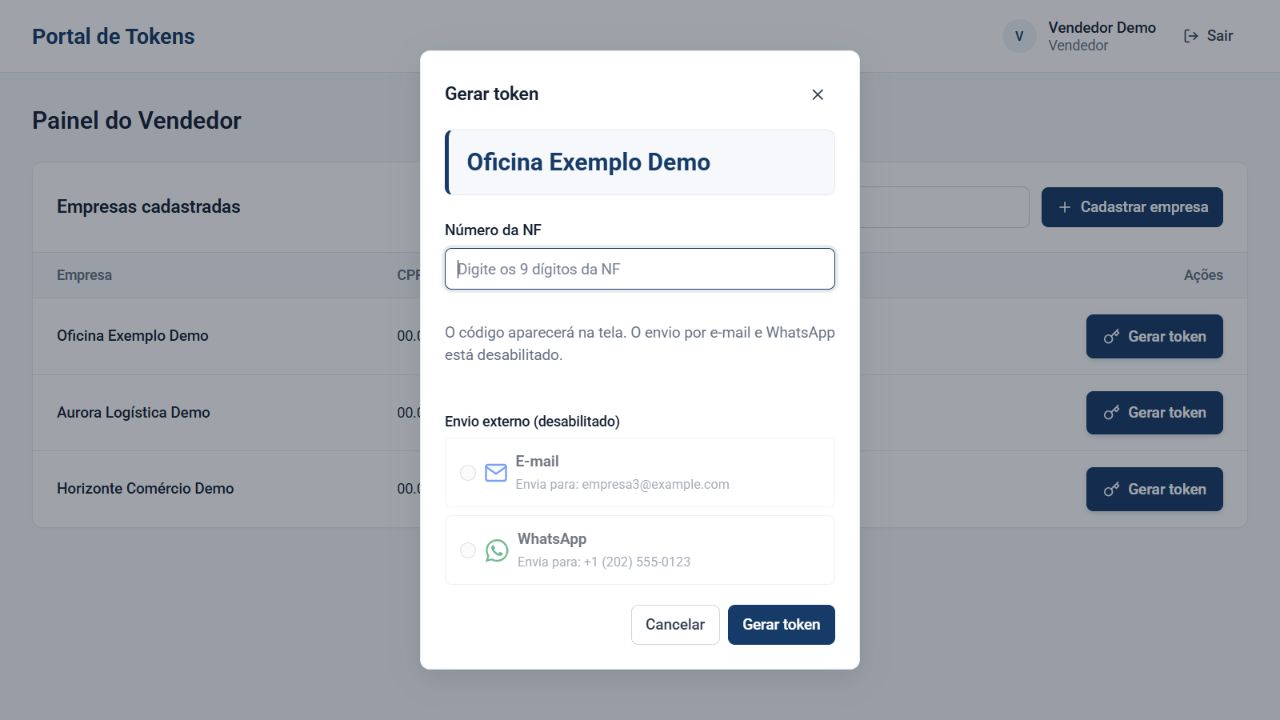
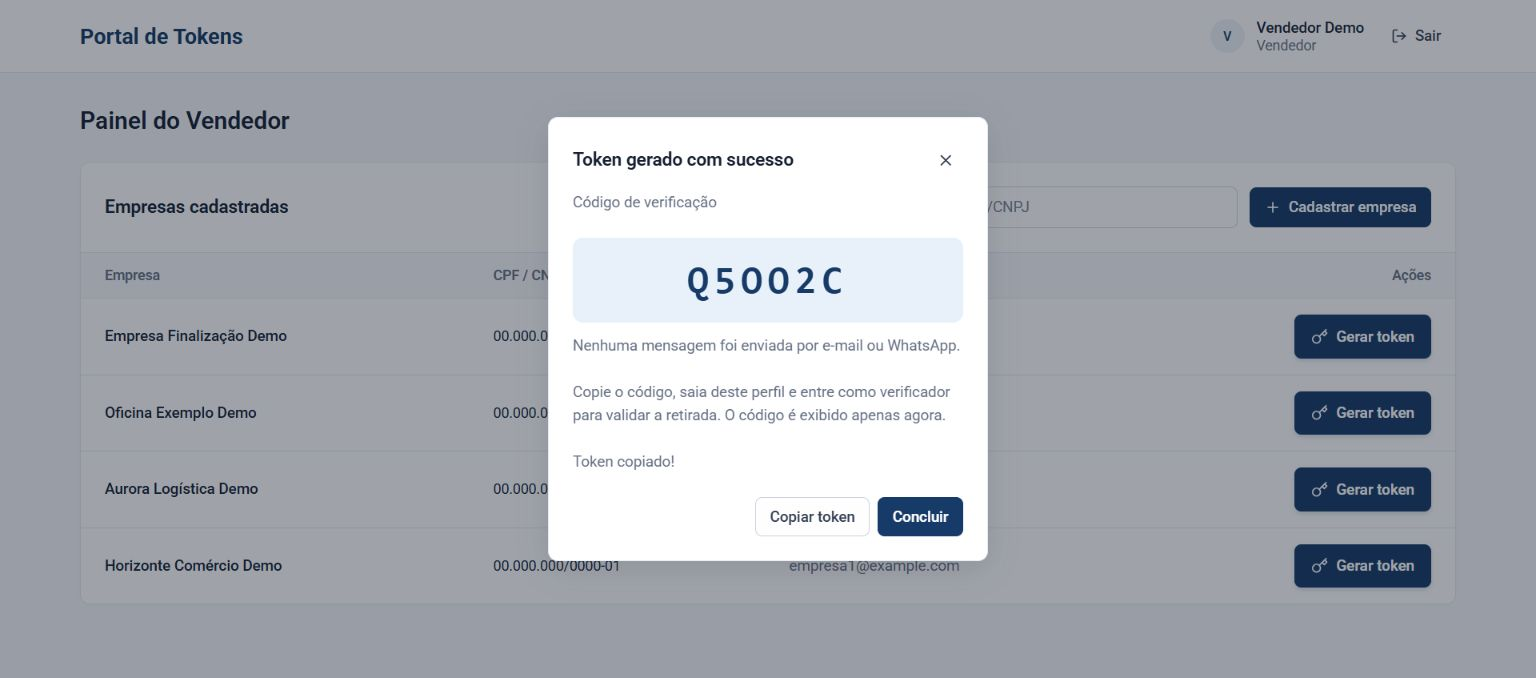
docs: esclarece acessos públicos e prepara publicação segura

diff --git a/docs/DEPLOY.md b/docs/DEPLOY.md
@@ -1,0 +1,75 @@
+# Publicação segura da demonstração
+
+Plano preparado em 14/10/2026. Não autoriza deploy, merge, mudança de ambiente, índice, migração ou escrita remota. Não acessar Lightsail nem o sistema empresarial original.
+
+## Infraestrutura observada, somente leitura
+
+| Componente | Configuração confirmada |
+| --- | --- |
+| Frontend Vercel | Projeto `tokens`, produção `master`, commit `eec58ac`, raiz `frontend` |
+| Frontend público | `https://tokens-theta-dun.vercel.app/` |
+| API compilada no frontend | `https://tokens-xfrp.onrender.com/api` |
+| Backend Render | Serviço `tokens`, ID `srv-db76ku49v7es73al9l6g`, Node, Free, Oregon |
+| Repositório backend | `guilhermehgl/tokens`, `master`, raiz `backend/` |
+| Build backend | `npm ci --include=dev && npm run build` |
+| Start backend | `npm run start` → `node dist/src/app.js` |
+| Último sucesso backend | `96548feed2adc1a30af2eca625cab16e3dc851e3` |
+| Última tentativa | `eec58ac`, build passou, inicialização recusou `JWT_SECRET` curto |
+| Health check Render | Campo vazio na inspeção; planejar `/api/health` |
+
+O último build Render escolheu Node 26.11.1 pelo range de engines. O projeto admite essa linha, porém o CI existente cobre 22/24. Planejar Node 24 validado; não apresentar 26 como certificado pelo CI. A instância Free pode dormir e atrasar requisições por mais de 50 segundos; isso não comprova contrato funcional nem explica sozinho o 502 observado.
+
+Vercel cria previews da branch de melhorias; Render registrou Auto-Deploy para `master`. **Push pode gerar preview; merge pode iniciar produção.** Não executar sem aprovação que cubra o efeito automático. Nenhuma configuração foi alterada para contornar essa exigência.
+
+## Ambiente necessário
+
+- Frontend: `VITE_API_URL=https://tokens-xfrp.onrender.com/api` no build. Nova variável só vale em novo build. Rewrites Vercel atendem SPA, sem proxy para Render.
+- Backend: `MONGO_URI` do banco demonstrativo confirmado, `JWT_SECRET` aleatório com pelo menos 32 caracteres e `CORS_ORIGINS=https://tokens-theta-dun.vercel.app`. Adicionar origem de preview só com aprovação; sem wildcard.
+- `PORT` fornecida pela hospedagem ou padrão local. `TRUST_PROXY` desativado até determinar cadeia/IPs confiáveis; não definir `true` indiscriminadamente. `HTTPS_ENABLED` somente após confirmar HTTPS/proxy.
+- SMTP/Vonage não são necessários. Seus nomes existem no Render, mas os valores não foram revelados nem alterados; sua presença não deve habilitar envio na versão corrigida.
+
+Gerar JWT no ambiente seguro do responsável. Rotação invalida sessões, sem mudar senhas. Não publicar segredo em docs, PR ou logs. Corrigir `JWT_SECRET` é alteração externa sujeita à autorização.
+
+## Banco: bloqueio anterior à publicação
+
+`MONGO_URI` permanece mascarada; **nome exato e isolamento do banco remoto não foram confirmados**. Não houve conexão ao banco hospedado. O responsável deve identificar cluster e nome exato e confirmar que contém apenas a demonstração, sem dados empresariais.
+
+Após essa confirmação, usar credencial somente leitura, sem divulgar URI. Configurar `MONGO_URI` com segurança no processo autorizado, sem mudar a configuração externa. No checkout revisado:
+
+```powershell
+$env:INTEGRITY_DB_NAME="<nome-exato-confirmado>"
+npm --prefix backend run check:integrity
+```
+
+O script executa TypeScript via `tsx`, consultas/aggregations e `listIndexes`, com `autoIndex=false` e `autoCreate=false`. Não usa seed, modelos, criação/remoção de índices ou atualização de documentos. Exige correspondência exata do nome após conectar. O nome informado não prova isolamento; essa confirmação continua humana.
+
+Esperado: zero duplicidades de `tokenHash`, documentos e e-mails normalizados; zero hashes inválidos e documentos fora do formato; índices `ready`: únicos em `tokens.tokenHash`, `companies.documento`, `users.email`, TTL `tokens.expiresAt` com zero segundos. Índices parciais, sparse ou com collation incompatível não são considerados prontos. Saída 1 indica pendências, recusa ou indisponibilidade. O diagnóstico não certifica todos os campos nem a veracidade dos dados.
+
+**Não iniciar o servidor como diagnóstico remoto**: a inicialização corrigida verifica integridade e cria índices. TTL pode remover registros vencidos; índice único pode falhar com duplicatas. Esse passo afeta dados e exige aprovação.
+
+Se houver pendências:
+
+1. Fazer backup protegido e testar restauração em cópia isolada, registrando contagens e índices.
+2. Preparar relatório de conflitos e decisão explícita sobre cada formato/duplicata. Não deduplicar ou apagar automaticamente.
+3. Testar migração revisável na cópia; guardar mapeamento, métricas e procedimento inverso quando aplicável.
+4. Obter aprovação específica para mudanças e índices/TTL na demonstração.
+5. Repetir diagnóstico e validar a cópia com backend corrigido antes de alterar o ambiente público.
+
+Seed exige sufixo `_demo` e banco vazio ou marcador conhecido. Não substituir contas públicas por `@demo.local`. Não executar seed remoto; o reconhecimento das identidades públicas no código protege-as sem trocar senhas/flags no banco.
+
+## Sequência após aprovações específicas
+
+1. Revisar commits locais e autorizar push/preview. Executar CI Node 22/24 no novo HEAD; resultado de `42083d7` não certifica o HEAD novo.
+2. Confirmar isolamento/nome do banco, diagnóstico, backup, migração se necessária e autorização dos índices.
+3. Validar backend/frontend em cópia isolada, sem provedores externos. Preview não deve apontar inadvertidamente para dados empresariais.
+4. Aprovar correção JWT e configurações necessárias; escolher o commit a publicar. Merge e deploy são aprovações distintas do push do PR.
+5. Publicar backend corrigido primeiro; conferir logs, health, revisão, CORS e contas protegidas. Não divulgar geração enquanto houver backend antigo.
+6. Publicar frontend compatível com URL correta, sem reutilizar build com variável antiga.
+7. Com autorização para dados fictícios, testar três logins, cadastro, geração/cópia, logout, consumo, recusa de repetição, pendências e auditoria. Validar mobile/erros e ausência de SMTP/Vonage, também com canais HTTP forçados.
+8. Só então anunciar demonstração completa e atualizar README/homepage. `Ready` e build não substituem fluxo real.
+
+## Rollback
+
+Registrar revisão, configuração segura e backup antes da mudança. Em falha, não enfraquecer JWT ou integridade. Interromper geração e corrigir isoladamente. Backend antigo `96548fe` contém envio externo: **não é rollback seguro para demonstração sem bloqueio da geração**. Preparar previamente artefato revisado com envio desativado e compatível com os dados.
+
+Rollback frontend somente para revisão compatível com API escolhida. Não apagar índices, restaurar banco, sobrescrever senhas ou rodar seed automaticamente. Banco exige plano/aprovação próprios; restauração pode perder escritas posteriores ao backup. Preservar logs sanitizados. Toda operação externa de rollback exige autorização.

diff --git a/docs/PUBLICACAO.md b/docs/PUBLICACAO.md
@@ -1,15 +1,32 @@
 # Estado da publicação — 14/10/2026
 
-- Endereço informado inicialmente: https://tokens-mu.vercel.app — `404 DEPLOYMENT_NOT_FOUND`.
-- Endereço correto informado pelo autor: https://tokens-theta-dun.vercel.app — aplicação carrega e login dos três perfis e consultas de usuários, empresas, auditoria e pendências confirmados.
-- Contas atuais da hospedagem são diferentes do seed local. As três identidades fornecidas pelo autor foram incluídas nas proteções do código corrigido, sem alterar usuários ou credenciais no banco hospedado.
-- A interface publicada mostra envio externo desabilitado. Entretanto, ao gerar na tela, a API responde: “Escolha um canal de envio válido: e-mail ou WhatsApp.” Isso comprova incompatibilidade entre as versões do frontend/backend. A geração pública não foi concluída, e nenhum canal externo foi selecionado.
-- O admin publicado oferece ações de criação/exclusão e alteração de senha nas contas públicas. As novas proteções foram implementadas e testadas localmente, sem executar mutações administrativas no ambiente remoto.
-- Nenhum deploy, acesso Lightsail, alteração de configuração externa ou migração remota foi realizado. Não há evidência de que o servidor hospedado execute o commit corrigido.
-- Não anunciar o fluxo público como integralmente funcional antes de alinhar os deploys e repetir geração, consumo, segundo uso e auditoria. Não usar SMTP/Vonage para contornar o erro.
+Esta página separa execução local, evidências históricas e inspeção atual somente leitura. Nenhum merge, deploy manual, mudança de variável externa, migração ou alteração do banco remoto foi realizado nesta etapa.
 
-A versão corrigida usa somente geração na tela. O seed exige banco isolado terminado em `_demo`, vazio ou marcado, e não apaga dados. Não publica mudanças ou restaura infraestrutura. Confira [integridade e operação](INTEGRIDADE.md).
+| Item | Evidência atual | Conclusão |
+| --- | --- | --- |
+| Frontend | `https://tokens-theta-dun.vercel.app/` responde 200; Vercel indica `master`, commit `eec58ac` | CONFIRMADA a disponibilidade da interface |
+| API efetiva | Bundle público `index-qwnw2PeN.js` contém `https://tokens-xfrp.onrender.com/api` | CONFIRMADO o destino compilado de `VITE_API_URL` |
+| Proxy | URL absoluta no bundle; `frontend/vercel.json` faz apenas fallback SPA | API chamada diretamente no Render |
+| Backend | Render `tokens`, serviço `srv-db76ku49v7es73al9l6g`, branch `master` | Último sucesso `96548feed2adc1a30af2eca625cab16e3dc851e3` |
+| Atualização recusada | Deploy `dep-db7o6gui0phs739bultg`, fonte `eec58ac`, build concluído, processo encerrado com status 1 | Log: `JWT_SECRET deve ter pelo menos 32 caracteres.` |
+| Disponibilidade API | GET `/api/health` respondeu 502, inclusive sem Origin e com Origin correto | NÃO FOI POSSÍVEL VERIFICAR os fluxos públicos nesta revisão; 502 não comprova falha de CORS |
+| CORS | Logs do deploy recusado incluem theta e a origem antiga | Configuração registrada; comportamento hospedado da versão nova ainda não validado |
+| Banco remoto | `MONGO_URI` existe no painel, mantida mascarada | Nome, isolamento, duplicidades, formatos e índices NÃO VERIFICADOS |
 
-A apresentação do repositório pode usar a descrição: “Sistema Full Stack de geração e validação de tokens de retirada, com autenticação JWT, controle de acesso, auditoria e MongoDB.” Topics pertinentes: `react`, `nodejs`, `typescript`, `express`, `mongodb`, `fullstack`, `jwt`, `authentication`, `rest-api`, `portfolio`. Homepage deve apontar para uma demonstração integralmente validada; a geração pública continua pendente.
+O endereço antigo `tokens-mu.vercel.app` respondeu 404 e não é recomendado como acesso.
 
-Descrição e dez topics atualizados no GitHub. A homepage antiga foi removida, pois estava indisponível; o novo endereço permanece documentado com a limitação de geração, sem ser anunciado como fluxo completo validado.
+## Causa e limites
+
+O código público do backend `96548fe` exige `deliveryChannel=email|whatsapp`; o frontend solicita `screen`. Essa combinação explica a mensagem “Escolha um canal de envio válido: e-mail ou WhatsApp.” observada na etapa anterior. O novo backend compilou, porém recusou o segredo JWT curto na inicialização. Não reduzir a validação para contornar o problema.
+
+A branch corrigida já gera exclusivamente na tela, sem invocar `deliverToken`; não há rota alternativa que habilite SMTP/Vonage. Isso está validado localmente. **Não significa que o backend antigo hospedado tenha envio externo desativado.** Não forçar canais externos remotamente.
+
+Login dos três perfis e consultas administrativas foram confirmados na etapa anterior. Nesta revisão não foram repetidos com a API em 502. As credenciais públicas foram preservadas; nenhum seed remoto, alteração de senha, exclusão ou mutação administrativa foi executado. A validação pública completa aguarda deploy especificamente autorizado.
+
+## GitHub e automação
+
+O [PR existente](https://github.com/guilhermehgl/tokens/pull/1) permanece aberto. O CI de `42083d7` passou em Node 22 e 24 ([execução](https://github.com/guilhermehgl/tokens/actions/runs/38621039452)). Esse resultado não certifica commits locais posteriores.
+
+O workflow de qualidade não contém deploy, mas **a integração Vercel cria previews ao atualizar a branch/PR**; isso ocorreu na etapa anterior. Portanto, ausência de comando manual não significa ausência de deploy automático. Render também registra Auto-Deploy para `master`.
+
+Nesta etapa os novos commits são preparados localmente, sem push, até autorização para o preview automático. Homepage permanece sem anunciar o fluxo completo. [Plano de publicação, banco e rollback](DEPLOY.md).

diff --git a/README.md b/README.md
@@ -8,7 +8,9 @@ Criado para uma necessidade empresarial e adaptado para portfólio público com 
 
 [Portal de Tokens](https://tokens-theta-dun.vercel.app/)
 
-Verificação em 14/10/2026: carregamento, login dos três perfis e consulta administrativa disponíveis. **A geração publicada está bloqueada por incompatibilidade entre frontend e API**: a interface solicita exibição na tela, mas o backend hospedado exige um canal externo. Não selecione canais de mensagem para contornar o erro. A correção da branch precisa de revisão e deploy autorizado; testes locais não comprovam que a versão publicada recebeu as mudanças. O endereço anterior `tokens-mu.vercel.app` retorna `DEPLOYMENT_NOT_FOUND`.
+Verificação em 14/10/2026: o frontend carrega, mas **a demonstração completa permanece indisponível**. O bundle aponta para a API Render, que respondeu HTTP 502 nesta revisão. O painel confirma frontend em `eec58ac` e último backend publicado com sucesso em `96548fe`. O deploy do backend mais novo compilou, mas falhou ao iniciar por `JWT_SECRET` abaixo do mínimo de 32 caracteres. A versão antiga exige canal externo; não tente contornar o erro escolhendo e-mail ou WhatsApp. [Estado e evidências](docs/PUBLICACAO.md).
+
+### Acessos públicos de teste
 
 Credenciais da hospedagem, fornecidas pelo autor para a demonstração:
 
@@ -18,7 +20,21 @@ Credenciais da hospedagem, fornecidas pelo autor para a demonstração:
 | Vendedor | vendedor@vendedor.com | `123$qwer` |
 | Verificador | verificador@verificador.com | `123$qwer` |
 
-Essas identidades também são protegidas no código corrigido. A versão hospedada ainda exibe ações administrativas para elas; não representa a validação das novas proteções. Nunca use essas senhas em contas reais.
+As credenciais são públicas intencionalmente e qualquer visitante pode utilizá-las. Use somente dados fictícios, nunca informações empresariais reais. Essas identidades são protegidas no código corrigido; as proteções ainda precisam ser publicadas. Os logins foram confirmados na etapa anterior, mas não foram revalidados nesta revisão com a API indisponível. Nunca use essas senhas em contas reais.
+
+### Como experimentar
+
+O roteiro abaixo descreve a versão corrigida, validada localmente. **No endereço público, aguarde a atualização autorizada da API e a confirmação do fluxo completo.** Não é necessário configurar um ambiente local para usar a demonstração depois da publicação.
+
+1. Abra o link acima e entre como **Vendedor**.
+2. Selecione uma empresa fictícia ou cadastre outra com dados de teste.
+3. Informe uma NF de nove dígitos, por exemplo `000000101`, e clique em **Gerar token**.
+4. Copie o código exibido no modal. A versão corrigida não envia mensagens externas.
+5. Saia e entre como **Verificador**; informe o código e confirme a verificação.
+6. Repita a tentativa com o mesmo código: a segunda retirada deve ser recusada.
+7. Consulte pendências e retiradas; depois entre como **Administrador** para consultar usuários, empresas e auditoria.
+
+Os perfis separam emissão, liberação da retirada e administração. As contas são compartilhadas; outros visitantes podem adicionar dados fictícios enquanto você navega.
 
 ## Funcionalidades por perfil
 
@@ -122,7 +138,7 @@ $env:INTEGRITY_DB_NAME="portal_tokens_demo"
 npm --prefix backend run check:integrity
 ```
 
-O comando imprime apenas contagens e não modifica registros ou índices. [Procedimento de migração e limitações](docs/INTEGRIDADE.md).
+O comando imprime contagens e o estado dos índices esperados, sem valores de registros. Não cria coleções, índices ou dados. Verifica hashes legados, documentos, e-mails equivalentes após normalização e índices únicos/TTL. Saída com código 1 indica diagnóstico recusado, indisponível ou pendências; índice ausente não autoriza criá-lo remotamente. [Migração](docs/INTEGRIDADE.md) · [Plano de publicação e rollback](docs/DEPLOY.md).
 
 ## Testes e builds
 
@@ -146,7 +162,7 @@ O resultado real deve ser consultado na aba Actions do commit/PR; a existência 
 
 ## Integrações e limitações
 
-Nodemailer/SMTP/MJML e Vonage Messages API permanecem no código como referência técnica. A geração da versão corrigida **não chama os provedores**, mesmo que o cliente peça envio. Credenciais de integração não habilitam mensagens. Reativação exigiria uma mudança explícita no fluxo. [Integração WhatsApp](backend/WHATSAPP.md).
+Nodemailer/SMTP/MJML e Vonage Messages API possuem implementações preservadas da solução original, incluindo templates, validações e tratamento de erros. A geração da versão corrigida **não chama os provedores**, mesmo que o cliente peça envio. Credenciais de integração não habilitam mensagens. Reativação exigiria uma mudança explícita no fluxo. Testes usam mocks ou transporte MIME local; não houve validação de envio real nesta auditoria. **O backend hospedado antigo ainda possui envio no fluxo; a desativação pública só pode ser afirmada após sua atualização e validação.** [Integração WhatsApp](backend/WHATSAPP.md).
 
 A demonstração compartilha cadastros e não oferece isolamento por visitante. Limitadores são por processo; múltiplas instâncias precisam de armazenamento compartilhado antes de escalar. Não há limpeza automática, reset destrutivo, garantia transacional de auditoria, revogação imediata de JWT no logout ou unicidade de código após exclusão TTL. JWT em localStorage mantém risco de exposição por XSS; migração HttpOnly exige revisão do contrato de autenticação.
 

diff --git a/docs/API.md b/docs/API.md
@@ -1,0 +1,39 @@
+# Contrato demonstrativo de tokens
+
+Base local `/api`; o frontend hospedado aponta para `https://tokens-xfrp.onrender.com/api`. O contrato abaixo pertence à branch corrigida, ainda pendente de publicação autorizada. O backend antigo hospedado é incompatível.
+
+## Geração
+
+`POST /api/tokens/generate`, Bearer JWT, perfil vendedor ou administrador:
+
+```json
+{"companyId":"<ObjectId existente>","nfNumber":"000000101","deliveryChannel":"screen"}
+```
+
+A NF é string com nove dígitos, preservando zeros iniciais. `deliveryChannel` é ignorado: omitido, `screen`, `email` e `whatsapp` produzem exclusivamente exibição na tela. Não existe parâmetro ou variável que reative envio nessa rota.
+
+HTTP 200 com `Cache-Control: no-store`:
+
+```json
+{"success":true,"token":"ABC123","tokenId":"<ObjectId>","expiresAt":"<ISO-8601>","deliveryChannel":"screen","message":"Token gerado. Copie o código exibido na tela."}
+```
+
+O código do exemplo é ilustrativo. O código real tem seis caracteres e validade de 30 dias. Só SHA-256 é persistido; o código aparece apenas na resposta autorizada. Auditoria registra contexto e canal `screen`, sem código/hash. O frontend exibe modal e permite copiar, sem persistência em URL/localStorage.
+
+Erros: 400 dados inválidos, 401 sessão inválida, 403 perfil sem permissão, 404 empresa ausente, 429 limite excedido, 503 esgotamento das tentativas de colisão e 500 falha interna.
+
+## Verificação
+
+`POST /api/tokens/verify`, Bearer JWT, perfil verificador ou administrador:
+
+```json
+{"token":"ABC123"}
+```
+
+Consumo atômico exige hash correspondente, `used=false` e validade futura. HTTP 200 confirma liberação. HTTP 400 com `code=used_token` impede repetição; `expired_token` informa vencimento enquanto o registro existir; `invalid_token` cobre formato incorreto ou código ausente. Após TTL, código vencido pode ser informado como não encontrado.
+
+`GET /api/tokens/unverified` e `GET /api/tokens/verified-today` não devolvem código/hash. `GET /api/audit` exige administrador e sanitiza registros antigos. Falhas secundárias de auditoria não revertem retirada consumida; auditoria não é transacional.
+
+## Integrações preservadas
+
+`deliverToken`, SMTP/Nodemailer/MJML e Vonage permanecem implementados, sem ligação com as rotas demonstrativas de geração. Os serviços têm testes com mocks/transportes locais. O teste HTTP bloqueia conexões externas e criação de transporte SMTP durante geração, inclusive com canais forçados.

diff --git a/docs/INTEGRIDADE.md b/docs/INTEGRIDADE.md
@@ -11,7 +11,7 @@ $env:INTEGRITY_DB_NAME="portal_tokens_demo"
 npm run check:integrity
 ```
 
-O diagnóstico usa somente leituras, desabilita criação automática de índices e imprime contagens, sem hashes ou documentos. Código de saída 1 indica duplicidades, formatos não canônicos ou falha de acesso. Se houver documentos formatados, normalize-os somente após revisão humana: documentos não canônicos bloqueiam a inicialização, evitando ignorar colisões entre formas diferentes. O diagnóstico não modifica o banco. Nenhuma migração foi executada em banco remoto.
+O diagnóstico usa somente leituras, desabilita criação automática de índices e coleções e imprime contagens e estado dos índices esperados, sem hashes, e-mails ou documentos. Inclui duplicidades de e-mails após normalização, hashes inválidos, documentos não canônicos e índices únicos/TTL ausentes ou incompatíveis. Código de saída 1 indica pendências, recusa ou falha de acesso. Se houver documentos formatados, normalize-os somente após revisão humana: documentos não canônicos bloqueiam a inicialização, evitando ignorar colisões entre formas diferentes. O diagnóstico não modifica o banco, não certifica todos os campos legados e não autoriza migração. Nenhuma migração foi executada em banco remoto. [Plano de publicação e rollback](DEPLOY.md).
 
 Em base existente, faça backup e revise duplicidades e formatos antes de qualquer migração. Não exclua registros para contornar o índice. Caso já exista índice não único com o mesmo nome/especificação, a criação pode falhar; planeje sua substituição explicitamente com o responsável pelo banco. A aplicação falha sem aceitar tráfego enquanto os índices necessários não estiverem disponíveis.
 
